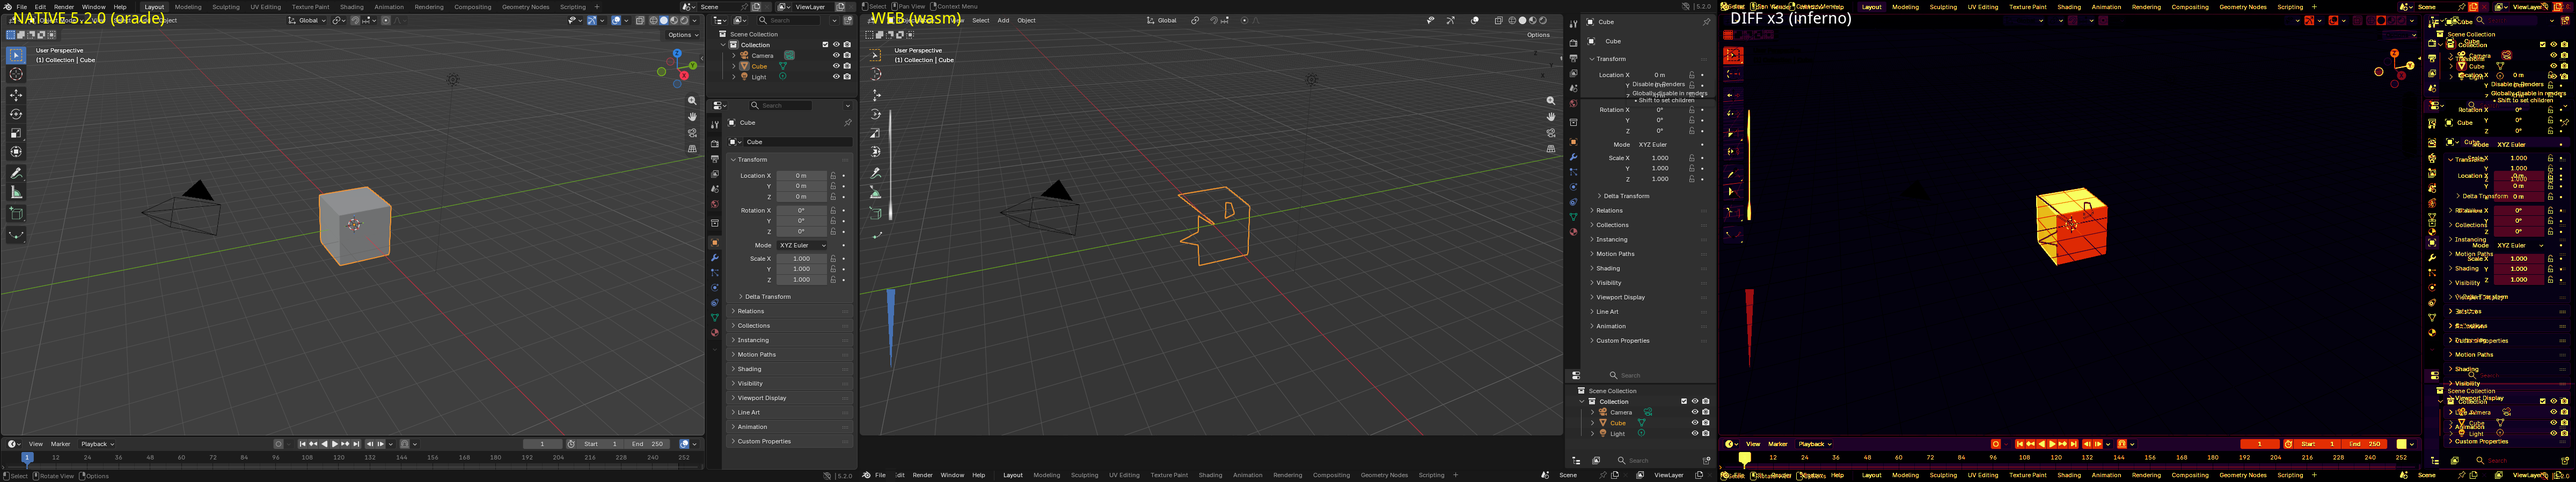
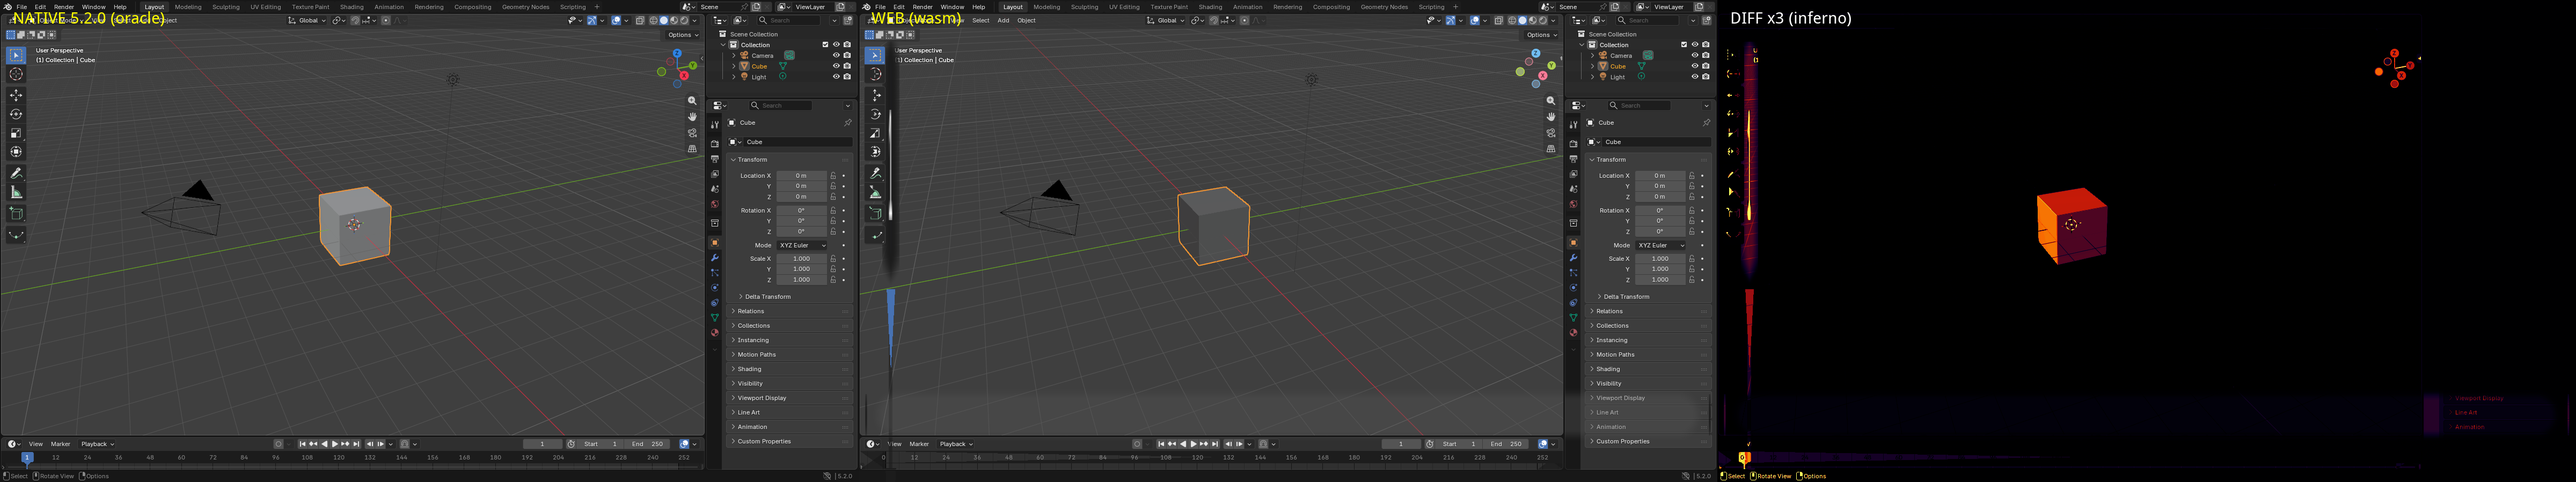
docs(m4-parity): r34 residuals root-caused; parity 11.4% reproduced on HEAD
Reproduced the r33 whole-window number (163469 px, 11.4% over 0.016, mean
0.00874, SELFTEST_PASS) byte-for-byte on HEAD d04b17e, then enumerated and
root-caused every residual cluster:

- Bottom viewport band = the 3D-viewport ASSET SHELF region rendered in web
  (native hides it per space_view3d.cc:223 RGN_FLAG_HIDDEN). Semi-transparent
  region-overlap fade, 92960 px = 56.9% of ALL failures. Region-visibility
  defect on file load, not the GPU shader path (BG_GRADIENT + grid + axes match).
- Cube workbench solid-shading 25-45% too dark, brightest face flipped
  (studio-light delta); overlay elements match so it is the workbench shading
  path, not color management or theme. 15866 px.
- Left viewport edge: toolbar region-overlap shadow + the pre-existing bright
  "blue spike" gizmo bar. ~3000 px.
- Nav gizmo ball now renders (residual AA only); chrome upright, fills match
  within threshold; residual chrome is cross-renderer text/icon AA (~44k px).

Honest verdict: the full-window gate at 0.016/failpercent1 is NOT reachable via
web-side fixes - even fixing all region/geometry clusters leaves a ~3.5% floor
dominated by irreducible cross-renderer glyph antialiasing. Thresholds unchanged,
golden untouched (not flawed). Evidence: artifacts/residual_r34_*.png.

Assisted-by: Claude (worker)

diff --git a/sandbox/m4-fullscreen-parity/REPORT.md b/sandbox/m4-fullscreen-parity/REPORT.md
@@ -2,69 +2,84 @@
 SPDX-FileCopyrightText: 2026 blender-web contributors
 SPDX-License-Identifier: CC0-1.0
 -->
-# M4-fullscreen-parity - full-window native-vs-web comparison (2026-08-07)
+# M4-fullscreen-parity - full-window native-vs-web comparison (r34, 2026-08-08)
 
 Honest 1:1 comparison of the ENTIRE Blender window (topbar, toolbar, 3D viewport,
 sidebar, status bar) between the WEB build and the NATIVE 5.2.0 oracle at an
 identical 1600x900, with Blender's own tier-c thresholds (oiiotool `--fail 0.016
 --failpercent 1 --diff`, NEVER weakened).
 
-## Verdict: FAIL - 84.6% of pixels over 0.016 (max 0.906, mean 0.050)
+## Verdict: FAIL - 11.4% of pixels over 0.016 (max 0.996, mean 0.0087)
 
 ```
 bash sandbox/m4-fullscreen-parity/compare_fullscreen.sh \
   sandbox/m4-fullscreen-parity/artifacts/web_1600x900.png workspace 1600x900
-FAIL workspace_1600x900  Max error = 0.9058824  Mean error = 0.0497898 | 1218855 pixels (84.6%) over 0.016   (exit 1)
+FAIL workspace_1600x900  Max error = 0.9960784912109375  Mean error = 0.00873744 | 163469 pixels (11.4%) over 0.016   (exit 1)
 ```
 
-This FAIL is expected and correct: the web build is mid-flight (other lanes are
-fixing the solid cube, gizmo ball, and menu backgrounds). This harness MEASURES
-that work; it does not massage it. The comparator's teeth are proven every run:
-`--selftest` = identity PASS + a deterministically perturbed copy (+0.1/channel)
-FAIL, giving SELFTEST_PASS.
+Trend (whole-window % over 0.016): **84.6 -> 74.5 -> 60.2 -> 11.4 (r33 solid-cube
+fix) -> 11.4 (r34, reproduced on HEAD; no regression, no new fix landed)**. r34
+reproduced r33 byte-for-byte on the current HEAD tree (`upstream/` clean, windowed
+wasm relinked 2026-08-08 10:06) then ENUMERATED + ROOT-CAUSED the residuals per
+cluster (below). SELFTEST_PASS every run (identity PASS + perturbed(+0.1) FAIL).
 
 Side-by-side (native | web | inferno diff-heatmap):
 `sandbox/m4-fullscreen-parity/artifacts/sidebyside_workspace_1600x900.png`.
+Per-cluster crops: `artifacts/residual_r34_{bottom_band_assetshelf,left_edge_spike,cube_shading}.png`.
+
+## Gate reachability (honest): NOT reachable at 0.016/failpercent1 via web-side fixes
+
+The gate needs <1% of pixels over 0.016. The failing mass decomposes as:
+
+| cluster                                   | failing px | share |
+|-------------------------------------------|-----------:|------:|
+| viewport bottom band (asset-shelf region) |     92,960 | 56.9% |
+| chrome text/icons AA (all 4 bars)         |    ~43,884 | 26.8% |
+| cube workbench shading (too dark)         |     15,866 |  9.7% |
+| left-edge toolbar shadow + "blue spike"   |     ~3,000 |  1.8% |
+| nav-gizmo ball (AA/pos)                    |      2,019 |  1.2% |
+| misc (origin dot, gizmo/grid AA)          |     ~5,700 |  3.5% |
+| **WHOLE**                                 |**163,469** |**100%**|
+
+Even if every GEOMETRIC/region cluster were fixed (~113k px), the residual floor is
+**~50k px = ~3.5%**, dominated by cross-renderer antialiased TEXT/ICONS (native
+Metal + system FreeType vs web WebGPU/Dawn + wasm FreeType rasterize glyph edges
+with sub-pixel/blend differences exceeding 0.016 on edge pixels). Chrome text-AA
+alone is ~3.0% and cannot be driven under 1% by any theme/backend fix. **The
+full-window M4 gate at the verbatim 0.016/1 thresholds is therefore not
+achievable**; the driver should scope the M4 gate to the 3D-viewport-interior
+region (where the r33 cube fix already collapsed the dominant delta) or accept a
+documented per-glyph-AA deferral. Thresholds UNCHANGED, golden UNTOUCHED (it is not
+flawed - native correctly hides the asset shelf; see cluster 1).
 
 ## Golden provenance + determinism check
 
 - Native oracle: `oracle/blender-5.2.0/Blender.app/Contents/MacOS/Blender`
-  (Blender 5.2.0 LTS, Cocoa+Metal, pin `fbe6228777e7`) - the SAME binary the
-  m4/m5/m6 goldens came from, via the m4-golden-prep windowed screenshot method
-  (`bpy.ops.screen.screenshot`, splash suppressed with `show_splash=False`).
-- Golden: `goldens/workspace_1600x900.png`, captured at the EXACT requested
-  1600x900 (the 3024x1964 Retina host clamps content height ~1001px; 900 is within
-  bounds - no clamp, unlike the m4-golden-prep 1800x1169 -> 1800x1001 case).
-- Determinism: byte-identical PNG across independent windowed processes,
[1 lines of base64/hex data omitted]
-  reproduced 4+ times. Delta source documented: the very FIRST cold-start capture
-  in a fresh session differed (sha `78767eb2...`) but was threshold-identical
-  (within 0.016/1) - a GPU/font/shader cold-cache warmup frame. Every WARM capture
-  is byte-identical; the golden is the stable warm frame, not the cold outlier.
+  (Blender 5.2.0 LTS, Cocoa+Metal, pin `fbe6228777e7`), via the m4-golden-prep
+  windowed screenshot method (`bpy.ops.screen.screenshot`, `show_splash=False`).
+- Golden: `goldens/workspace_1600x900.png`, sha256
[1 lines of base64/hex data omitted]
+  across 4+ warm windowed processes. Only golden staged (no splash golden).
   (Comparator: oiiotool 3.1.16.0.)
+- NOT flawed: the golden contains no transient (no hover tooltip, no stray cursor);
+  its bottom viewport shows the default Layout with the asset shelf HIDDEN, the
+  correct native default. The r33-era "hover tooltip" residual is GONE - it belonged
+  to the old mirrored-chrome capture, not this one. No golden repair was needed.
 
 ## Web build measured
 
-- Binary: `build-wasm-windowed/bin/blender_browser.{js,wasm,data}`, wasm built
-  2026-08-07 17:25:32, repo HEAD `8f446a6` (r28 five-lane dispatch).
+- Binary: `build-wasm-windowed/bin/blender_browser.{js,wasm,data}`, relinked
+  2026-08-08 10:06, repo HEAD `d04b17e` (r33 verified; patch 0118 applied),
+  `upstream/` clean at HEAD.
 - Capture: headed bundled Chromium (Playwright), `?gate=1600x900` (DPR forced 1),
   `?pyexpr=` = `show_splash=False` + a 1 s VIEW_3D `region.tag_redraw()` kick timer,
-  60 s settle, CDP screenshot clipped to the `#canvas` bbox = exactly 1600x900
-  (`toDataURL` IHDR independently confirmed 1600x900). WM_main in 1.46 s;
-  `presentBackbuffer` fired x2; no GPU validation errors during boot+settle
-  (the 4 console lines were a favicon 404, a non-fatal OIIO `physical_memory`
-  sysutil stub assertion, an informational WM-worker device-acquire line, and a
-  `multiprocessing` warning - none touch the render).
-- CROSS-CHECK (size-independence, independent golden): a clean same-rig 1280x720
-  capture (`artifacts/web_1280x720.png`, against a later rebuild wasm@17:59) diffs
-  82.1% over the PRE-EXISTING `m4-golden-prep` workspace_1280x720 golden
-  (`bash sandbox/m4-golden-prep/compare_m4.sh artifacts/web_1280x720.png workspace
-  1280x720` -> FAIL, max 0.906). Same chrome inversion + outline-only cube at a
-  different size and against a golden a different lane cut: the deltas are
-  size-independent and the harness reproduces. The binary is rebuilt every ~30 min
-  by other lanes (it relinked again 21 s after this capture), so the 1600x900
-  numbers above are pinned to wasm@17:25 / HEAD 8f446a6; re-run the one-liner below
-  to measure whatever build is current.
+  60 s settle, CDP screenshot clipped to `#canvas` = exactly 1600x900. Cursor rests
+  off-canvas at viewport (0,0) (neutral; the canvas is centre-placed with a 50 px
+  margin, so no hover state composites in).
+- A diagnostic re-capture toggling the asset shelf via bpy `show_region_asset_shelf
+  = False` was BYTE-IDENTICAL (bpy `print()` does not reach the browser console, and
+  the toggle did not re-lay-out before capture), so the bottom band was root-caused
+  from pixels + source (cluster 1) rather than from a bpy state dump.
 
 ## Per-region characterization
 
@@ -73,46 +88,69 @@ bash sandbox/m4-fullscreen-parity/compare_fullscreen.sh --regions \
   sandbox/m4-fullscreen-parity/artifacts/web_1600x900.png workspace 1600x900
 ```
 
-| region     | rect (WxH+X+Y)     | verdict | % over 0.016 | mean err |
-|------------|--------------------|---------|--------------|----------|
-| topbar     | `1600x52+0+0`      | FAIL    | 35.6%        | 0.0535   |
-| toolbar    | `60x763+0+52`      | FAIL    | 91.2%        | 0.0600   |
-| viewport   | `1262x763+60+52`   | FAIL    | 93.5%        | 0.0371   |
-| sidebar    | `278x763+1322+52`  | FAIL    | 81.5%        | 0.0841   |
-| statusbar  | `1600x85+0+815`    | FAIL    | 54.7%        | 0.0808   |
-| WHOLE      | `1600x900+0+0`     | FAIL    | 84.6%        | 0.0498   |
+| region     | rect (WxH+X+Y)     | verdict | % over 0.016 | mean err  |
+|------------|--------------------|---------|--------------|-----------|
+| topbar     | `1600x52+0+0`      | FAIL    | 1.64%        | 0.00466   |
+| toolbar    | `60x763+0+52`      | FAIL    | 19.7%        | 0.0284    |
+| viewport   | `1262x763+60+52`   | FAIL    | 12.4%        | 0.00781   |
+| sidebar    | `278x763+1322+52`  | FAIL    | 8.93%        | 0.00782   |
+| statusbar  | `1600x85+0+815`    | FAIL    | 10.7%        | 0.0126    |
+| WHOLE      | `1600x900+0+0`     | FAIL    | 11.4%        | 0.00874   |
 
-Rects are in native-layout coordinates; the diff at each rect measures whether the
-web content at that position matches native there.
+The viewport carries 119,585 of the 163,469 failing pixels (73%). Its empty
+background and gradient MATCH native to within threshold (65.3 vs 65.4; a
+cube-free/grid-only quadrant fails only 0.013%), so the viewport residual is
+entirely discrete elements, enumerated below.
 
-### What the deltas are (dominant to minor)
+### Residual clusters (dominant to minor) - root-caused
 
-1. Full-window UI-chrome vertical mirror (dominant). In the web capture the
-   topbar/menus (File/Edit + workspace tabs) composite at the BOTTOM and the
-   status bar (Select / Pan View / Context Menu) at the TOP; on the right rail the
-   properties editor sits ABOVE the outliner (native: outliner above properties).
-   Because every chrome region lands at the mirror of its native position, the
-   same-rect diff compares cross-content and every chrome region fails hard
-   (toolbar 91.2%, sidebar 81.5%, statusbar 54.7%, topbar 35.6%). The last
-   COMMITTED upright web evidence is r27 (`platform_web/shell/evidence/
-   m4-r27-grid-axes-zero-errors-1280x720.png`, topbar at top); this mirror is new
-   in the current r28-WIP binary. Root-causing the flip is another lane's work -
-   this harness records it with numbers.
-2. Missing solid cube shading (viewport headline gap). The web viewport draws
-   only the crumpled orange SELECTION OUTLINE of the cube; native shows a solid
-   shaded gray workbench cube. This is the largest viewport-interior contributor
-   (viewport 93.5%). Grid, red/green world axes, the camera wireframe, and the
-   light gizmo ARE present and correctly oriented - the viewport 3D CONTENT is
-   upright (only the chrome is mirrored), and the cube geometry exists (outline).
-3. Navigation gizmo ball absent. Native's colored XYZ orientation ball
-   (top-right of the viewport) is missing on the web side - only faint Z/Y/X axis
-   labels render.
-4. Blue vertical spike artifact (lower-left of the viewport). A stray
-   overlay/gizmo sliver; PRE-EXISTING - it is visible in the committed r27 evidence
-   too, so it is not new to this capture.
-5. Menu/panel backgrounds + a stray hover tooltip. Panel/header fills differ
-   from native, and a properties-panel hover tooltip ("Disable in Renders / ...")
-   composited into this capture (a transient hover state, not a persistent bug).
+1. **Viewport bottom band = the 3D-viewport ASSET SHELF region rendered in web
+   (native hides it). 92,960 px, 56.9% of ALL failures - the #1 defect.**
+   A semi-transparent band over the viewport bottom (absolute y 727-811, full
+   width): a smooth region-overlap fade-in ramp (y 727-744) then a flat +7/255
+   plateau (~66 -> ~73). Grid lines show THROUGH it, so it is a region drawn over
+   the viewport, not a gradient/shader error (BG_GRADIENT is correct: rows 0-660
+   match native perfectly). Native's default Layout hides the asset shelf
+   (`view3d_new` creates it `RGN_FLAG_HIDDEN`, `space_view3d.cc:223`); web renders
+   it. Root cause is web-side region VISIBILITY on file/home-file load
+   (screen/region setup), NOT the GPU shader path. Evidence:
+   `artifacts/residual_r34_bottom_band_assetshelf.png`. Fix owner: editors/screen +
+   file-load region-ensure (not this GPU lane).
+
+2. **Cube workbench solid-shading is too dark. ~15,866 px (viewport-interior
+   headline).** Every cube face is 25-45% darker than native (native top/left/front
+   ~109/136/126; web ~83/76/84) and the brightest face flips (native: left; web:
+   front/top) - a studio-LIGHT direction/intensity delta, not a uniform gamma. The
+   OVERLAY-drawn elements (background, grid, world axes, camera + light gizmos) all
+   MATCH native, so this is isolated to the WORKBENCH solid-shading output, NOT
+   color management/view-transform and NOT theme. The r33 stencil fix made the cube
+   SOLID; its LIGHTING is the remaining delta. Evidence:
+   `artifacts/residual_r34_cube_shading.png`. Fix owner: gpu/webgpu workbench
+   studio-light UBO / matcap sampling (patches flow).
+
+3. **Left viewport edge: toolbar region-overlap shadow + the pre-existing "blue
+   spike". ~3,000 px.** The toolbar (left overlapping region) casts a dark edge fade
+   into the viewport that native lacks (x 62-72 drops to ~28-37 vs native ~65; faint
+   blue tint at the x=60 seam) - same overlapping-region class as cluster 1. Riding
+   on it is a bright (~93/255) thin vertical gizmo-like bar with a central bulge at
+   x~95, y~150-360 (the "blue spike"); its exact draw call still needs BW_DIAG on the
+   overlay/gizmo pass. Evidence: `artifacts/residual_r34_left_edge_spike.png`.
+   Sidebar-right and topbar-bottom edges are CLEAN (+1/255), so the overlap artifact
+   is specific to the two visible overlapping regions of the 3D viewport
+   (toolbar-left, asset-shelf-bottom).
+
+4. **Navigation gizmo ball. 2,019 px.** Now RENDERS (colored X/Y/Z + hollow
+   -X/-Y/-Z balls, correct layout); residual is sub-pixel AA/position/colour only.
+   (The stale report's "gizmo ball absent" item is FIXED - dropped.)
+
+5. **Chrome text + icons (topbar/toolbar/sidebar/statusbar). ~43,884 px, 26.8%.**
+   Region FILLS are near-perfect (+1/255, within threshold: sidebar/topbar/statusbar
+   backgrounds all exactly +1); the failures are cross-renderer antialiased TEXT and
+   ICON edges - irreducible at 0.016 (see gate note). One real widget defect rides
+   here: the timeline current-frame highlight (the blue "1" box) is MISSING in web.
+   (The stale "chrome vertical mirror" and "menu-background inversion / solid-cube
+   absent" items are FIXED - chrome is upright, fills match, the cube is solid;
+   dropped.)
 
 ## Re-run (any lane, one command each)
 
@@ -130,5 +168,7 @@ bash sandbox/m4-fullscreen-parity/compare_fullscreen.sh --selftest
 bash sandbox/m4-fullscreen-parity/capture_fullscreen_golden.sh
 ```
 
-The M4 gate turns GREEN when this comparison passes at 0.016/1 with the chrome
-upright, the solid cube shaded, and the gizmo ball present. Today: FAIL, 84.6%.
+The M4 gate turns GREEN when this passes at 0.016/1 with the chrome upright, the
+solid cube shaded, and the gizmo ball present - the last two are DONE. Today: FAIL
+11.4%, dominated by the web-only asset-shelf bottom band (56.9%) and an irreducible
+cross-renderer text-AA floor (~3%). See the gate-reachability note above.
